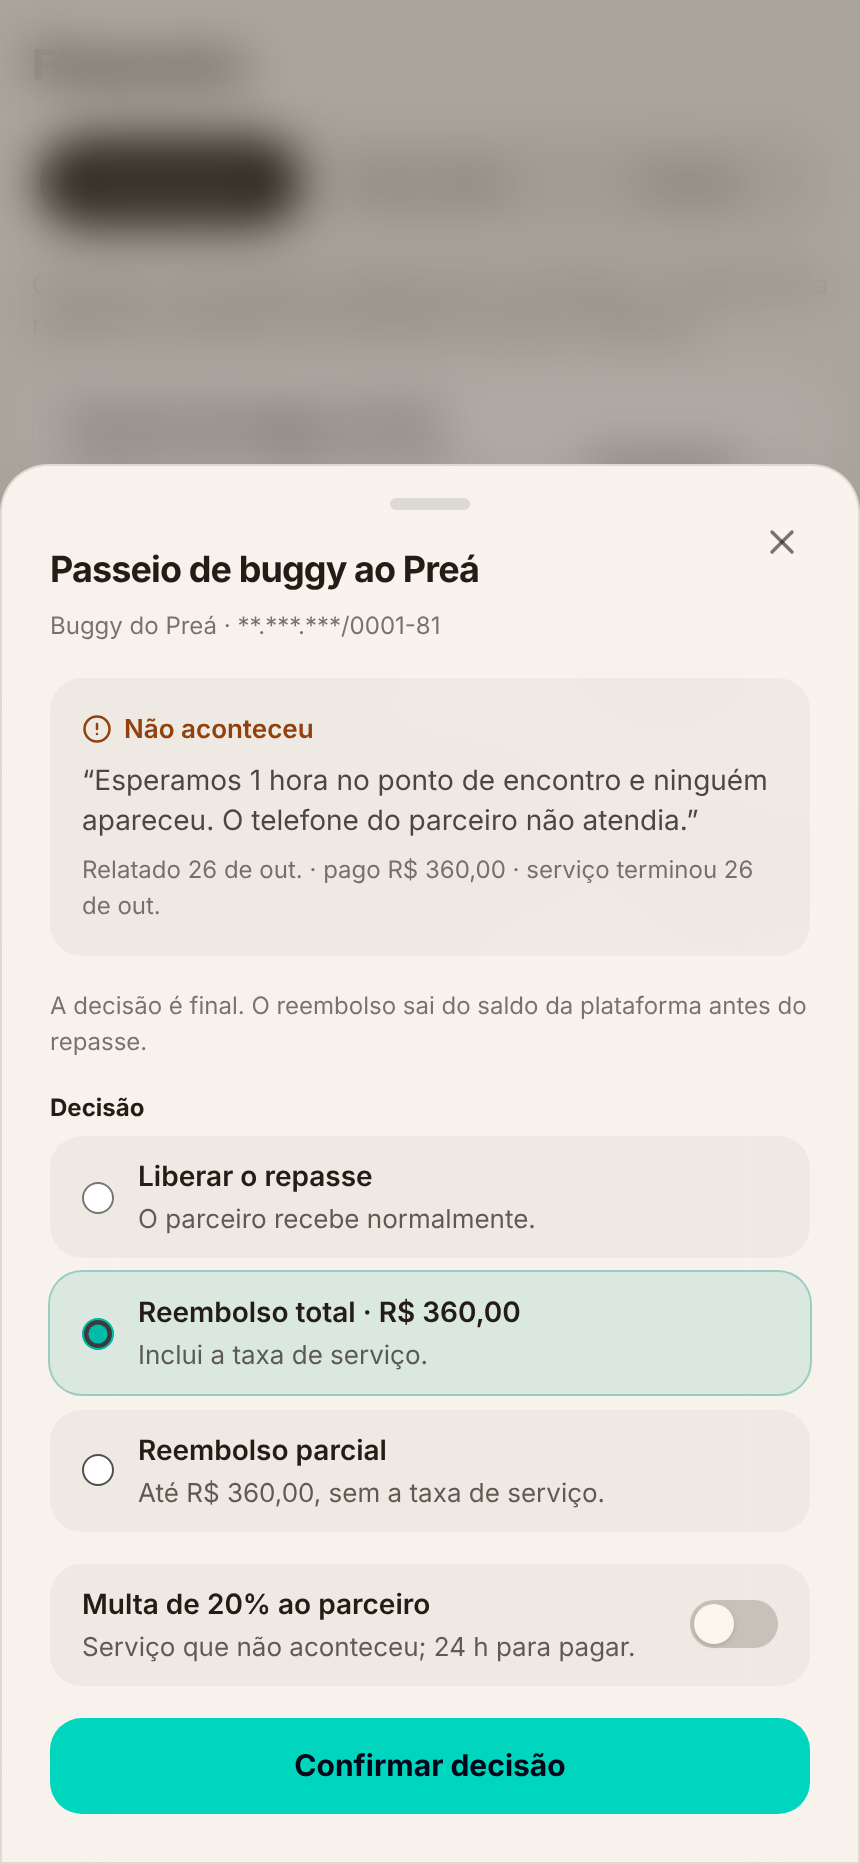
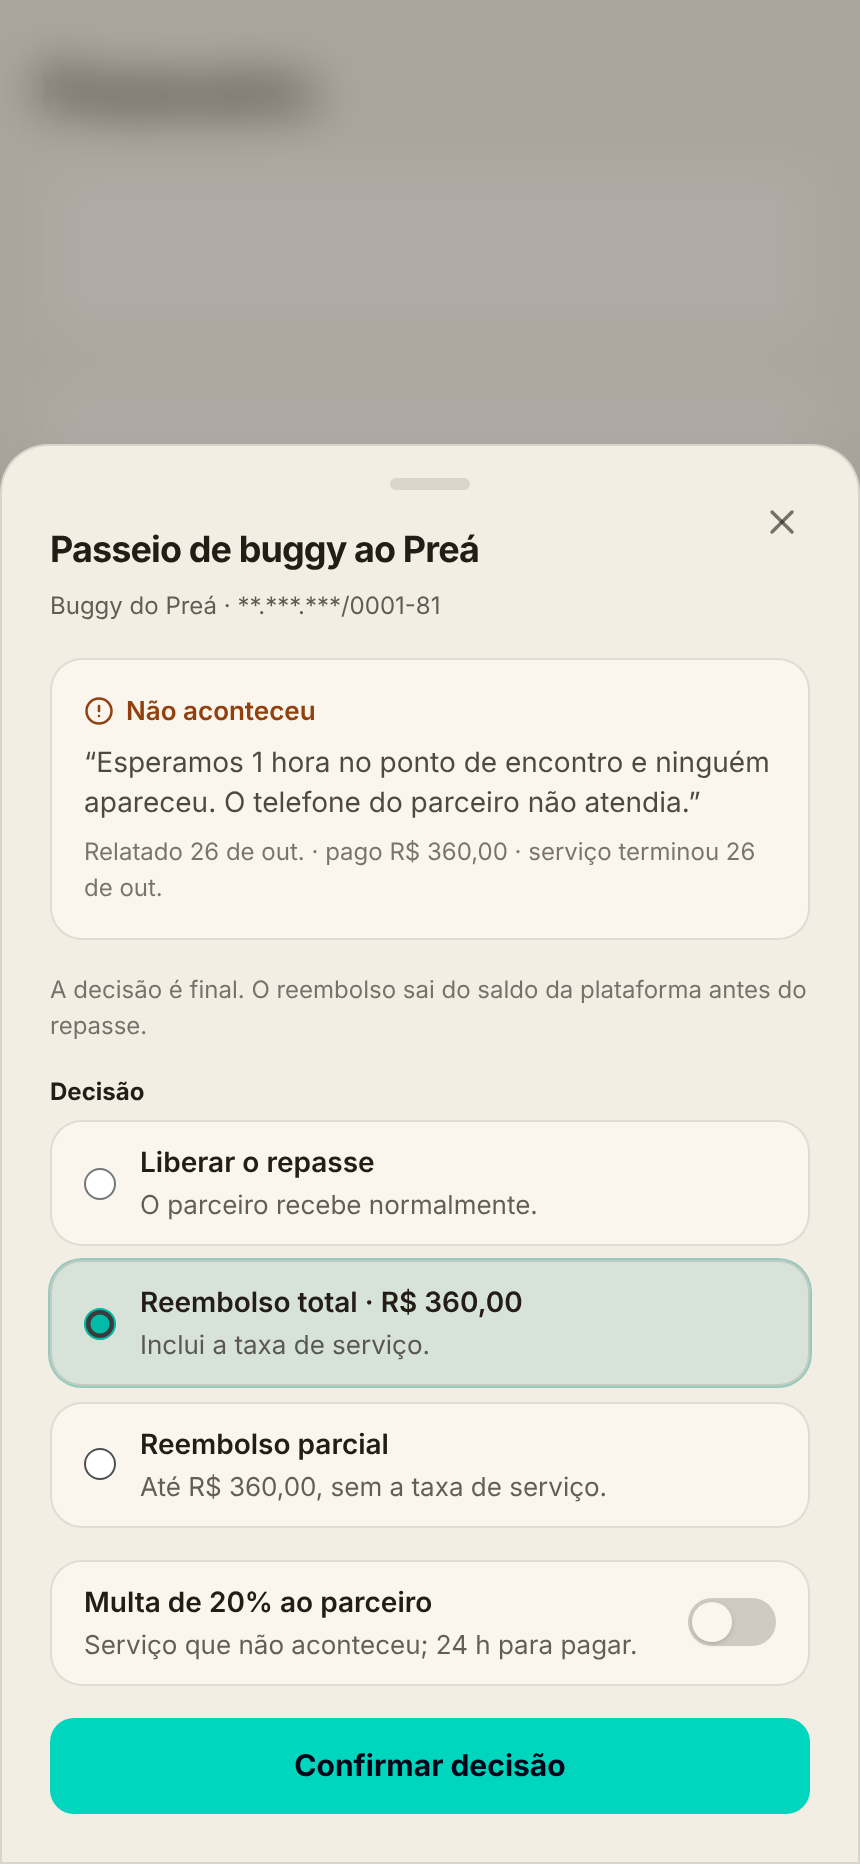
23.4: folhas seguem as telas no tema claro (fundo bege, cartões claros) e print de referência refeito (D17)
Claude-Session: https://claude.ai/code/session_01B4DS9rUAeoBCKcvRgBPDfP

diff --git a/src/domain/payment/components/admin/SaleClaimDecisionDialog.tsx b/src/domain/payment/components/admin/SaleClaimDecisionDialog.tsx
@@ -12,7 +12,7 @@ import { adminFinanceErrorKey, errorCodeOf } from '../../utils/adminFinanceError
 const OUTCOMES: SaleClaimOutcome[] = ['release', 'refund_full', 'refund_partial'];
 
 const OPTION =
-  'press min-h-14 px-4 py-2.5 rounded-2xl bg-ink/[0.04] flex items-center gap-3 text-sm text-ink cursor-pointer has-[:checked]:bg-accent-soft has-[:checked]:ring-1 has-[:checked]:ring-accent-line focus-within:ring-2 focus-within:ring-teal-400/50';
+  'press min-h-14 px-4 py-2.5 rounded-2xl bg-sheet-card border border-sheet-card-line flex items-center gap-3 text-sm text-ink cursor-pointer has-[:checked]:bg-accent-soft has-[:checked]:ring-1 has-[:checked]:ring-accent-line focus-within:ring-2 focus-within:ring-teal-400/50';
 
 /** Decisão do admin (D16, 2A); o backend recalcula os valores e confere a multa. */
 export function SaleClaimDecisionDialog({
@@ -81,7 +81,7 @@ export function SaleClaimDecisionDialog({
     >
       {claim && (
         <form onSubmit={submit} className="space-y-4" noValidate>
-          <div className="p-4 rounded-2xl bg-ink/[0.04] space-y-1.5">
+          <div className="p-4 rounded-2xl bg-sheet-card border border-sheet-card-line space-y-1.5">
             <p className="text-[13px] font-semibold text-warn flex items-center gap-1.5">
               <AlertCircle size={15} aria-hidden="true" />
               {t(`saleClaims.reason.${claim.reason}`)}
@@ -154,7 +154,7 @@ export function SaleClaimDecisionDialog({
             </div>
           )}
           {penaltyAllowed && (
-            <label className="press min-h-14 px-4 py-2.5 rounded-2xl bg-ink/[0.04] flex items-center justify-between gap-3 cursor-pointer focus-within:ring-2 focus-within:ring-teal-400/50">
+            <label className="press min-h-14 px-4 py-2.5 rounded-2xl bg-sheet-card border border-sheet-card-line flex items-center justify-between gap-3 cursor-pointer focus-within:ring-2 focus-within:ring-teal-400/50">
               <span className="space-y-0.5">
                 <span className="block text-sm font-semibold text-ink">
                   {t('adminFinance.claims.penaltyLabel')}

diff --git a/src/index.css b/src/index.css
@@ -84,6 +84,9 @@
   --color-ink: var(--ug-ink);
   --color-surface: var(--ug-surface);
   --color-surface-solid: var(--ug-surface-solid);
+  --color-sheet: var(--ug-sheet);
+  --color-sheet-card: var(--ug-sheet-card);
+  --color-sheet-card-line: var(--ug-sheet-card-line);
   --color-line: var(--ug-line);
   --color-scrim: var(--ug-scrim);
   --color-accent: var(--ug-accent);
@@ -188,6 +191,10 @@
   --ug-ink: #ffffff;
   --ug-surface: #1e2024;
   --ug-surface-solid: #1e2024;
+  /* Folhas (D17): no escuro, folha na cor do cartão e blocos um pouco mais claros. */
+  --ug-sheet: #1e2024;
+  --ug-sheet-card: rgba(255, 255, 255, 0.04);
+  --ug-sheet-card-line: transparent;
   --ug-line: rgba(255, 255, 255, 0.08);
   --ug-scrim: rgba(0, 0, 0, 0.7);
   --ug-accent: #5eead4;
@@ -215,6 +222,10 @@
   --ug-ink: #ffffff;
   --ug-surface: #1e2024;
   --ug-surface-solid: #1e2024;
+  /* Folhas (D17): no escuro, folha na cor do cartão e blocos um pouco mais claros. */
+  --ug-sheet: #1e2024;
+  --ug-sheet-card: rgba(255, 255, 255, 0.04);
+  --ug-sheet-card-line: transparent;
   --ug-line: rgba(255, 255, 255, 0.08);
   --ug-accent: #5eead4;
   --ug-accent-soft: rgba(20, 184, 166, 0.12);
@@ -235,6 +246,10 @@
   --ug-ink: #231d16;
   --ug-surface: rgba(250, 246, 238, 0.97);
   --ug-surface-solid: #faf6ee;
+  /* Folhas no claro seguem as telas: fundo bege e cartões claros com borda. */
+  --ug-sheet: #f3eee4;
+  --ug-sheet-card: #faf6ee;
+  --ug-sheet-card-line: rgba(35, 29, 22, 0.12);
   --ug-line: rgba(35, 29, 22, 0.12);
   --ug-scrim: rgba(35, 29, 22, 0.35);
   --ug-accent: #0f766e;

diff --git a/src/ui/components/Dialog.tsx b/src/ui/components/Dialog.tsx
@@ -40,7 +40,7 @@ export function Dialog({
         {/* Celular: folha que sobe da borda (como num app nativo). Do sm em diante: cartão central. */}
         <RadixDialog.Content
           className={cn(
-            'fixed inset-x-0 bottom-0 mx-auto w-full max-w-md max-h-[92dvh] overflow-y-auto p-6 pb-[max(1.5rem,env(safe-area-inset-bottom))] rounded-t-3xl bg-surface border border-line shadow-2xl backdrop-blur-xl text-ink outline-none overscroll-contain animate-sheet-up data-[state=closed]:animate-sheet-down motion-reduce:animate-none',
+            'fixed inset-x-0 bottom-0 mx-auto w-full max-w-md max-h-[92dvh] overflow-y-auto p-6 pb-[max(1.5rem,env(safe-area-inset-bottom))] rounded-t-3xl bg-sheet border border-line shadow-2xl backdrop-blur-xl text-ink outline-none overscroll-contain animate-sheet-up data-[state=closed]:animate-sheet-down motion-reduce:animate-none',
             'sm:inset-x-auto sm:bottom-auto sm:top-1/2 sm:left-1/2 sm:-translate-x-1/2 sm:-translate-y-1/2 sm:w-[calc(100%-2rem)] sm:pb-6 sm:rounded-3xl sm:animate-scale-in sm:data-[state=closed]:animate-scale-out',
             className
           )}

diff --git a/src/domain/notifications/components/NotificationCenterSheet.tsx b/src/domain/notifications/components/NotificationCenterSheet.tsx
@@ -144,7 +144,7 @@ export function NotificationCenterSheet({
                     <button
                       type="button"
                       onClick={() => onOpenItem(item)}
-                      className="press w-full p-4 rounded-2xl bg-ink/[0.04] flex items-start gap-3 text-left hover:bg-ink/[0.06] focus-visible:ring-2 focus-visible:ring-teal-400/50 focus-visible:outline-none"
+                      className="press w-full p-4 rounded-2xl bg-sheet-card border border-sheet-card-line flex items-start gap-3 text-left hover:bg-ink/[0.06] focus-visible:ring-2 focus-visible:ring-teal-400/50 focus-visible:outline-none"
                     >
                       <span className="flex-1 min-w-0 space-y-0.5">
                         <span

diff --git a/src/domain/ticketing/components/wallet/TransferLinkReceiverDialog.tsx b/src/domain/ticketing/components/wallet/TransferLinkReceiverDialog.tsx
@@ -98,7 +98,7 @@ export function TransferLinkReceiverDialog({
           </>
         ) : preview ? (
           <>
-            <div className="flex items-start gap-3 p-3 rounded-2xl bg-ink/[0.04]">
+            <div className="flex items-start gap-3 p-3 rounded-2xl bg-sheet-card border border-sheet-card-line">
               <span className="w-11 h-11 shrink-0 rounded-xl bg-accent-soft text-accent flex items-center justify-center">
                 <TicketIcon size={20} aria-hidden="true" />
               </span>

diff --git a/src/domain/bookings/components/buyer/BookingServiceActions.tsx b/src/domain/bookings/components/buyer/BookingServiceActions.tsx
@@ -95,7 +95,7 @@ export function BookingServiceActions({
   const absence = booking.providerAbsence;
   if (isConfirmationPending(booking, now) && booking.serviceConfirmation) {
     content = (
-      <div className="p-4 rounded-2xl bg-ink/[0.04] space-y-3">
+      <div className="p-4 rounded-2xl bg-sheet-card border border-sheet-card-line space-y-3">
         <div className="space-y-1">
           <p className="text-[15px] font-semibold text-ink">
             {t('serviceProof.buyer.questionTitle')}

diff --git a/src/domain/bookings/components/admin/ServiceEvidenceList.tsx b/src/domain/bookings/components/admin/ServiceEvidenceList.tsx
@@ -83,7 +83,7 @@ export function ServiceEvidenceList({ evidence }: { evidence: BookingServiceEvid
 
   const location = arrival?.location;
   return (
-    <div className="p-4 rounded-2xl bg-ink/[0.04] space-y-1.5">
+    <div className="p-4 rounded-2xl bg-sheet-card border border-sheet-card-line space-y-1.5">
       <p className="text-[13px] font-semibold text-ink">{t('serviceProof.evidence.title')}</p>
       <ul className="space-y-1">
         {lines.map((line) => (

diff --git a/src/ui/components/purchases/PurchaseReceiptSheet.tsx b/src/ui/components/purchases/PurchaseReceiptSheet.tsx
@@ -63,7 +63,7 @@ export function PurchaseReceiptSheet({
           <p className="text-sm text-ink/70 mt-1">{serviceLine}</p>
         </div>
         {lines.length > 0 && (
-          <dl className="p-4 rounded-2xl bg-ink/[0.04] space-y-2">
+          <dl className="p-4 rounded-2xl bg-sheet-card border border-sheet-card-line space-y-2">
             {lines.map((line, index) => (
               <div
                 key={`${line.label}-${index}`}

diff --git a/src/domain/payment/components/admin/ForceMajeureSheet.tsx b/src/domain/payment/components/admin/ForceMajeureSheet.tsx
@@ -37,7 +37,7 @@ export function ForceMajeureSheet({
     >
       {review && (
         <div className="space-y-4">
-          <div className="p-4 rounded-2xl bg-ink/[0.04] space-y-2">
+          <div className="p-4 rounded-2xl bg-sheet-card border border-sheet-card-line space-y-2">
             <p className="text-sm text-ink/80 whitespace-pre-line break-words">
               “{review.forceMajeureReason}”
             </p>

diff --git a/docs/design/base-d17/README.md b/docs/design/base-d17/README.md
@@ -9,7 +9,8 @@ Prints aprovados em 2026-10-27, tirados do app depois dos prompts 20.0 e 20.1 (r
 | `light-2-reservas-anteriores.png` | Minhas reservas › Anteriores | claro |
 | `dark-4-pedidos.png` / `light-4-pedidos.png` | Ingressos › Pedidos | escuro / claro |
 | `dark-5-admin-reclamacoes.png` | Admin › Financeiro › Reclamações (lista compacta) | escuro |
-| `light-6-admin-decidir.png` | Folha de decisão da reclamação | claro |
+| `light-6-admin-decidir.png` | Folha de decisão da reclamação (refeito em 2026-11-03: folha bege, cartões claros) | claro |
+| `light-7-central-notificacoes.png` | Folha da central de notificações | claro |
 | `dark-8-admin-forca-maior-folha.png` | Folha da força maior | escuro |
 | `dark-9-admin-dividas.png` | Admin › Financeiro › Dívidas | escuro |
 | `fr-reservas-anteriores.png` | Minhas reservas em francês | escuro |
@@ -25,6 +26,7 @@ Prints aprovados em 2026-10-27, tirados do app depois dos prompts 20.0 e 20.1 (r
 - Voltar só com o chevron `<` (`BackButton`), sem caixa e sem seta.
 - Identificador (código do pedido) logo abaixo do nome, sem destaque: texto a 50% no escuro e 65% no claro (contraste AA).
 - Filas e listas longas em lista compacta (título, contexto, status e valor); detalhes e decisão na folha inferior (`Dialog`).
+- Folhas seguem as telas: fundo `bg-sheet` e blocos `bg-sheet-card border border-sheet-card-line`. No claro, fundo bege e cartões claros com borda; no escuro, folha na cor do cartão e blocos um pouco mais claros, sem borda.
 
 ## Onde ficam os reutilizáveis
 
